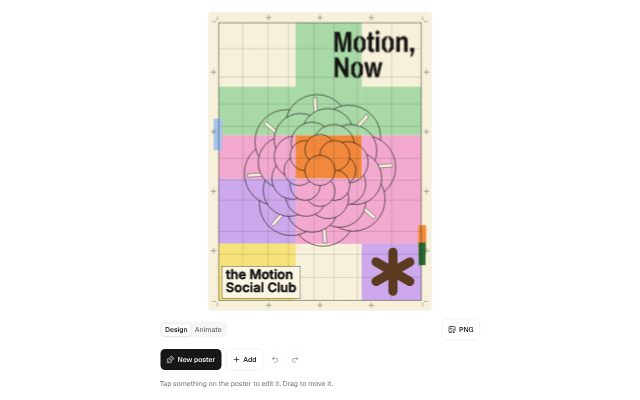
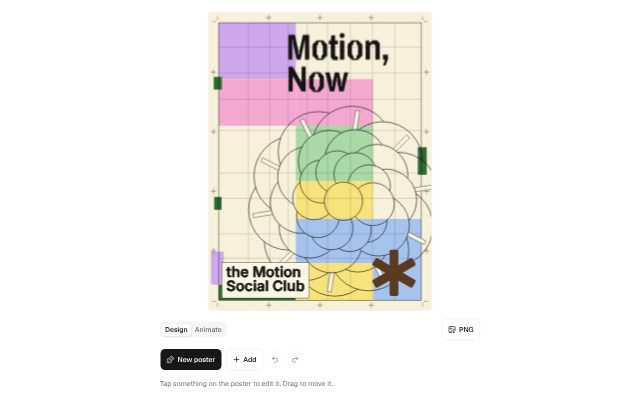
Playground: KV Posters, truly random generations and optional box outlines
Each seed now moves, scales, turns and re-petals the motifs, re-splits and
re-places the headline, swaps the lockup/asterisk corners and flips a coin
for every box outline. New free layout.

Claude-Session: https://claude.ai/code/session_01TARX4bFFU8dum9PbtFbYFe

Changed region(s): [[0.3125, 0.03, 0.6875, 0.75]]

diff --git a/playground/app/prototypes/kv-posters/vary.ts b/playground/app/prototypes/kv-posters/vary.ts
@@ -1,0 +1,47 @@
+import { fitSize, type Measure } from "./elements";
+import type { Frame } from "./layouts";
+import type { Rng } from "./random";
+import type { Element, Headline } from "./types";
+
+const clamp = (v: number, lo: number, hi: number) => Math.min(hi, Math.max(lo, v));
+
+/**
+ * The layouts are starting points; this makes every seed its own poster: motifs move, grow,
+ * turn and change petal counts, and the headline often gets a new split, size and place.
+ */
+export function vary(els: Element[], r: Rng, f: Frame, m: Measure): Element[] {
+  return els.map((e) => {
+    if (e.kind === "flower" || e.kind === "spiral") {
+      const rad = clamp(e.r * r.range(0.78, 1.3), f.W * 0.12, f.W * 0.5);
+      const base = {
+        ...e,
+        r: rad,
+        cx: clamp(e.cx + r.range(-0.14, 0.14) * f.W, f.x + rad * 0.4, f.x + f.w - rad * 0.4),
+        cy: clamp(e.cy + r.range(-0.12, 0.12) * f.H, f.y + rad * 0.4, f.y + f.h - rad * 0.4),
+        rot: r.range(-Math.PI, Math.PI),
+      };
+      if (e.kind === "spiral") return { ...base, rings: clamp(e.rings + r.int(-1, 1), 2, 6), perRing: clamp(e.perRing + r.int(-2, 3), 5, 12) } as Element;
+      return { ...base, petals: clamp(e.petals + r.int(-2, 3), e.style === "scallop" ? 10 : 5, 18), ticks: r.chance(0.8) } as Element;
+    }
+    if (e.kind === "headline" && r.chance(0.6)) return headlineVariant(e, r, f, m);
+    return e;
+  });
+}
+
+/** A new split, size and spot for the headline, always inside the frame and clear of the bottom row. */
+export function headlineVariant(h: Headline, r: Rng, f: Frame, m: Measure): Headline {
+  const vertical = f.H > f.W * 1.1 && r.chance(0.18);
+  const text = r.pick(["Motion,\nNow", "Motion, Now", "Motion,\nNow"]);
+  const safeH = f.h * 0.78;
+  if (vertical) {
+    const size = fitSize(m, text, f.w * r.range(0.16, 0.26), safeH * r.range(0.7, 1), true);
+    const b = m(text, size);
+    const left = r.chance(0.5);
+    return { ...h, text, size, vertical, x: left ? f.x + f.W * 0.012 : f.x + f.w - b.h - f.W * 0.012, y: f.y + f.h * 0.015 };
+  }
+  const size = fitSize(m, text, f.w * r.range(0.5, 0.97), f.h * r.range(0.14, text.includes("\n") ? 0.32 : 0.16));
+  const b = m(text, size);
+  const x = f.x + f.W * 0.012 + r() * Math.max(0, f.w - b.w - f.W * 0.024);
+  const y = r.chance(0.65) ? f.y + f.h * r.range(0.01, 0.06) : f.y + r() * Math.max(0, safeH - b.h);
+  return { ...h, text, size, vertical: false, x, y };
+}

diff --git a/playground/app/prototypes/kv-posters/generate.ts b/playground/app/prototypes/kv-posters/generate.ts
@@ -3,6 +3,7 @@ import { approxMeasure, lockup, mark, type Measure } from "./elements";
 import { LAYOUTS, type Frame } from "./layouts";
 import { cuts, paintSquares } from "./mosaic";
 import { rng } from "./random";
+import { vary } from "./vary";
 import type { Element, FormatId, Paint, Poster, Template } from "./types";
 
 export interface GenOptions {
@@ -32,10 +33,21 @@ export function generate(o: GenOptions, measure: Measure = approxMeasure): Poste
   const f = frameOf(width, height);
   const t = resolveTemplate(o);
   let body = LAYOUTS[t](f, r, o.density, measure);
+  if (t !== "line") body = vary(body, r, f, measure);
   const squares = o.paint === "squares" && t !== "line";
   if (squares) body = [...paintSquares(r, f, width, o.density), ...body.filter((e) => e.kind !== "block" && e.kind !== "bands").map(outlined)];
-  const lk = Math.round(width * 0.058);
-  const ms = Math.round(width * 0.075);
+  const lk = Math.round(width * r.range(0.05, 0.066));
+  const ms = Math.round(width * r.range(0.06, 0.09));
+  const swap = r.chance(0.35);
+  const lockupEl = lockup(f.x + width * 0.015, f.y + f.h - lk * 2.6, lk);
+  const markEl = { ...mark(f.x + f.w - ms * 1.15, f.y + f.h - ms * 1.15, ms, squares || t === "cascade" ? "brown" : "ink"), box: !squares, round: r.chance(0.7) ? 1 : r.range(0, 0.6), ...(squares ? { size: ms * 1.6, cx: f.x + f.w - ms * 1.7, cy: f.y + f.h - ms * 1.7 } : {}) };
+  if (swap) {
+    // asterisk bottom-left, lockup bottom-right
+    const lw = lk * 7.4;
+    lockupEl.x = f.x + f.w - lw;
+    markEl.cx = f.x + (f.x + f.w - markEl.cx);
+  }
+  const boxes = (e: Element): Element => (e.kind === "headline" || e.kind === "lockup" || e.kind === "mark" ? { ...e, boxLine: r.chance(0.55) } : e);
   return {
     version: 1,
     format: o.format,
@@ -44,11 +56,7 @@ export function generate(o: GenOptions, measure: Measure = approxMeasure): Poste
     line: t === "line",
     paint: squares ? "squares" : "fills",
     grid: { xs: cuts(r, r.int(6, 9)), ys: cuts(r, r.int(8, 12)) },
-    elements: [
-      ...body,
-      lockup(f.x + width * 0.015, f.y + f.h - lk * 2.6, lk),
-      { ...mark(f.x + f.w - ms * 1.15, f.y + f.h - ms * 1.15, ms, squares || t === "cascade" ? "brown" : "ink"), box: !squares, ...(squares ? { size: ms * 1.6, cx: f.x + f.w - ms * 1.7, cy: f.y + f.h - ms * 1.7 } : {}) },
-    ],
+    elements: [...body, lockupEl, markEl].map(boxes),
   };
 }
 

diff --git a/playground/app/prototypes/kv-posters/element-inspector.tsx b/playground/app/prototypes/kv-posters/element-inspector.tsx
@@ -13,6 +13,7 @@ export function ElementInspector({ el, palette, width, set }: { el: Element; pal
           <TextField label="Text" value={el.text} onChange={(text) => set({ text })} />
           <NumberField label="Size" value={el.size} min={40} max={W * 0.4} onChange={(size) => set({ size })} />
           <SwitchField label="Box" value={el.box} onChange={(box) => set({ box })} />
+          {el.box && <SwitchField label="Box outline" value={el.boxLine !== false} onChange={(boxLine) => set({ boxLine })} />}
           <SwitchField label="Vertical" value={el.vertical} onChange={(vertical) => set({ vertical })} />
           <SwitchField label="Outline only" value={!!el.outline} onChange={(outline) => set({ outline })} />
           <SwatchField label={el.outline ? "Outline colour" : "Colour"} palette={palette} value={[el.fill ?? "ink"]} onChange={([fill]) => set({ fill })} />
@@ -24,6 +25,7 @@ export function ElementInspector({ el, palette, width, set }: { el: Element; pal
           <TextField label="Text" value={el.text} onChange={(text) => set({ text })} />
           <NumberField label="Size" value={el.size} min={20} max={W * 0.15} onChange={(size) => set({ size })} />
           <SwitchField label="Box" value={el.box} onChange={(box) => set({ box })} />
+          {el.box && <SwitchField label="Box outline" value={el.boxLine !== false} onChange={(boxLine) => set({ boxLine })} />}
           <SwitchField label="Outline only" value={!!el.outline} onChange={(outline) => set({ outline })} />
           <SwatchField label={el.outline ? "Outline colour" : "Colour"} palette={palette} value={[el.fill ?? "ink"]} onChange={([fill]) => set({ fill })} />
         </>
@@ -72,6 +74,7 @@ export function ElementInspector({ el, palette, width, set }: { el: Element; pal
           <NumberField label="Size" value={el.size} min={20} max={W * 0.3} onChange={(size) => set({ size })} />
           <NumberField label="Roundness" value={el.round ?? 1} min={0} max={1} step={0.01} onChange={(round) => set({ round })} />
           <SwitchField label="Box" value={el.box} onChange={(box) => set({ box })} />
+          {el.box && <SwitchField label="Box outline" value={el.boxLine !== false} onChange={(boxLine) => set({ boxLine })} />}
           <SwatchField label="Colour" palette={palette} value={[el.fill]} onChange={([fill]) => set({ fill })} />
         </>
       );

diff --git a/playground/app/prototypes/kv-posters/layouts.ts b/playground/app/prototypes/kv-posters/layouts.ts
@@ -1,5 +1,7 @@
 import { bands, fitSize, flower, headline, spiral, type Measure } from "./elements";
 import { mosaic, type Box } from "./mosaic";
+import { PASTELS } from "./data";
+import { headlineVariant } from "./vary";
 import type { Rng } from "./random";
 import type { Element, Swatch, Template } from "./types";
 
@@ -59,6 +61,24 @@ export const LAYOUTS: Record<Template, Layout> = {
       ...mosaic(r, { x: f.x + col, y: f.y, w: f.w - col, h: f.h * 0.85 }, 5, 8, d),
       flower(W * 0.6, H * 0.5, W * 0.32, ["lilac", "mint"], { petals: 8, disc: "yellow" }),
       headline(f.x + W * 0.012, f.y + f.h * 0.015, fitSize(m, "Motion, Now", col - W * 0.02, f.h * 0.8, true), "Motion, Now", { vertical: true, box: false }),
+    ];
+  },
+  // free: one to three motifs anywhere, a mosaic, the headline wherever the seed puts it
+  free: (f, r, d, m) => {
+    const { W } = f;
+    const n = r.int(1, 3);
+    const motifs: Element[] = Array.from({ length: n }, () => {
+      const rad = W * r.range(0.16, n === 1 ? 0.42 : 0.28);
+      const cx = f.x + rad * 0.5 + r() * (f.w - rad);
+      const cy = f.y + f.h * 0.2 + r() * f.h * 0.6;
+      return r.chance(0.25)
+        ? spiral(cx, cy, rad, [r.pick(PASTELS), r.pick(PASTELS), "cream", r.pick(PASTELS)])
+        : flower(cx, cy, rad, [r.pick(PASTELS), r.pick(PASTELS)], { petals: r.int(6, 12), disc: r.pick(["cream", "yellow", "lilac", "mint"]) });
+    });
+    return [
+      ...mosaic(r, { x: f.x, y: f.y, w: f.w, h: f.h * r.range(0.7, 0.95) }, r.int(3, 7), r.int(4, 10), d),
+      ...motifs,
+      headlineVariant(headline(0, 0, 100, "Motion,\nNow"), r, f, m),
     ];
   },
   // line art: one scalloped flower over the grid, headline stepping down

diff --git a/playground/app/prototypes/kv-posters/types.ts b/playground/app/prototypes/kv-posters/types.ts
@@ -3,7 +3,7 @@
 export type Swatch = "paper" | "ink" | "blue" | "pink" | "lilac" | "mint" | "green" | "orange" | "yellow" | "brown" | "cream";
 export type Palette = Record<Swatch, string>;
 
-export type Template = "stack" | "cascade" | "overlap" | "vertical" | "line";
+export type Template = "stack" | "cascade" | "overlap" | "vertical" | "line" | "free";
 export type Paint = "squares" | "fills";
 export type FormatId = "3x4" | "4x5" | "9x16" | "1x1";
 
@@ -66,6 +66,8 @@ export interface Headline extends Base {
   text: string;
   vertical: boolean;
   box: boolean;
+  /** outline around the box (default on) */
+  boxLine?: boolean;
   /** outlined letters, no fill */
   outline?: boolean;
   /** letter colour (default ink) */
@@ -79,6 +81,8 @@ export interface Lockup extends Base {
   size: number;
   text: string;
   box: boolean;
+  /** outline around the box (default on) */
+  boxLine?: boolean;
   /** outlined letters, no fill */
   outline?: boolean;
   /** text colour (default ink) */
@@ -92,6 +96,8 @@ export interface Mark extends Base {
   size: number;
   fill: Swatch;
   box: boolean;
+  /** outline around the box (default on) */
+  boxLine?: boolean;
   /** arm ends: 0 = sharp, 1 = fully round */
   round: number;
 }

diff --git a/playground/app/prototypes/kv-posters/data.ts b/playground/app/prototypes/kv-posters/data.ts
@@ -26,11 +26,11 @@ export const PALETTES: Record<string, Palette> = {
   },
 };
 
-export const TEMPLATES = ["auto", "stack", "cascade", "overlap", "vertical", "line"] as const;
+export const TEMPLATES = ["auto", "free", "stack", "cascade", "overlap", "vertical", "line"] as const;
 
 export const controls = defineControls({
   template: { type: "select", label: "Layout", options: TEMPLATES, default: "auto" },
-  seed: { type: "number", label: "Seed", min: 1, max: 9999, step: 1, default: 2 },
+  seed: { type: "number", label: "Seed", min: 1, max: 9999, step: 1, default: 12 },
   format: { type: "select", label: "Format", options: ["3x4", "4x5", "9x16", "1x1"], default: "3x4", randomize: false },
   palette: { type: "select", label: "Palette", options: ["Pastel", "KV yellow", "Night"], default: "Pastel" },
   color: { type: "select", label: "Colour", options: ["squares", "fills"], default: "squares" },

diff --git a/playground/app/prototypes/kv-posters/draw-type.ts b/playground/app/prototypes/kv-posters/draw-type.ts
@@ -38,7 +38,7 @@ export function drawHeadline(ctx: CanvasRenderingContext2D, h: Headline, pen: Pe
     ctx.lineWidth = pen.lw * 0.6;
     const w = b.w * Math.min(1, p * 2);
     ctx.fillRect(0, 0, w, b.h);
-    ctx.strokeRect(0, 0, w, b.h);
+    if (h.boxLine !== false) ctx.strokeRect(0, 0, w, b.h);
   }
   ctx.beginPath();
   ctx.rect(0, 0, b.w, b.h);
@@ -88,7 +88,7 @@ export function drawLockup(ctx: CanvasRenderingContext2D, l: Lockup, pen: Pen, p
     ctx.strokeStyle = pen.pal.ink;
     ctx.lineWidth = pen.lw * 0.6;
     ctx.fillRect(0, 0, b.w * Math.min(1, p * 2), b.h);
-    ctx.strokeRect(0, 0, b.w * Math.min(1, p * 2), b.h);
+    if (l.boxLine !== false) ctx.strokeRect(0, 0, b.w * Math.min(1, p * 2), b.h);
   }
   ctx.globalAlpha = Math.min(1, Math.max(0, p * 2 - 0.6));
   ctx.font = FONT(l.size);

diff --git a/playground/app/prototypes/kv-posters/draw-shapes.ts b/playground/app/prototypes/kv-posters/draw-shapes.ts
@@ -83,7 +83,7 @@ export function drawMark(ctx: CanvasRenderingContext2D, m: Mark, pen: Pen, p: nu
     ctx.lineWidth = pen.lw * 0.6;
     ctx.globalAlpha = clamp01(p * 3);
     ctx.fillRect(m.cx - s * 1.05, m.cy - s * 1.05, s * 2.1, s * 2.1);
-    ctx.strokeRect(m.cx - s * 1.05, m.cy - s * 1.05, s * 2.1, s * 2.1);
+    if (m.boxLine !== false) ctx.strokeRect(m.cx - s * 1.05, m.cy - s * 1.05, s * 2.1, s * 2.1);
     ctx.globalAlpha = 1;
   }
   ctx.translate(m.cx, m.cy);
